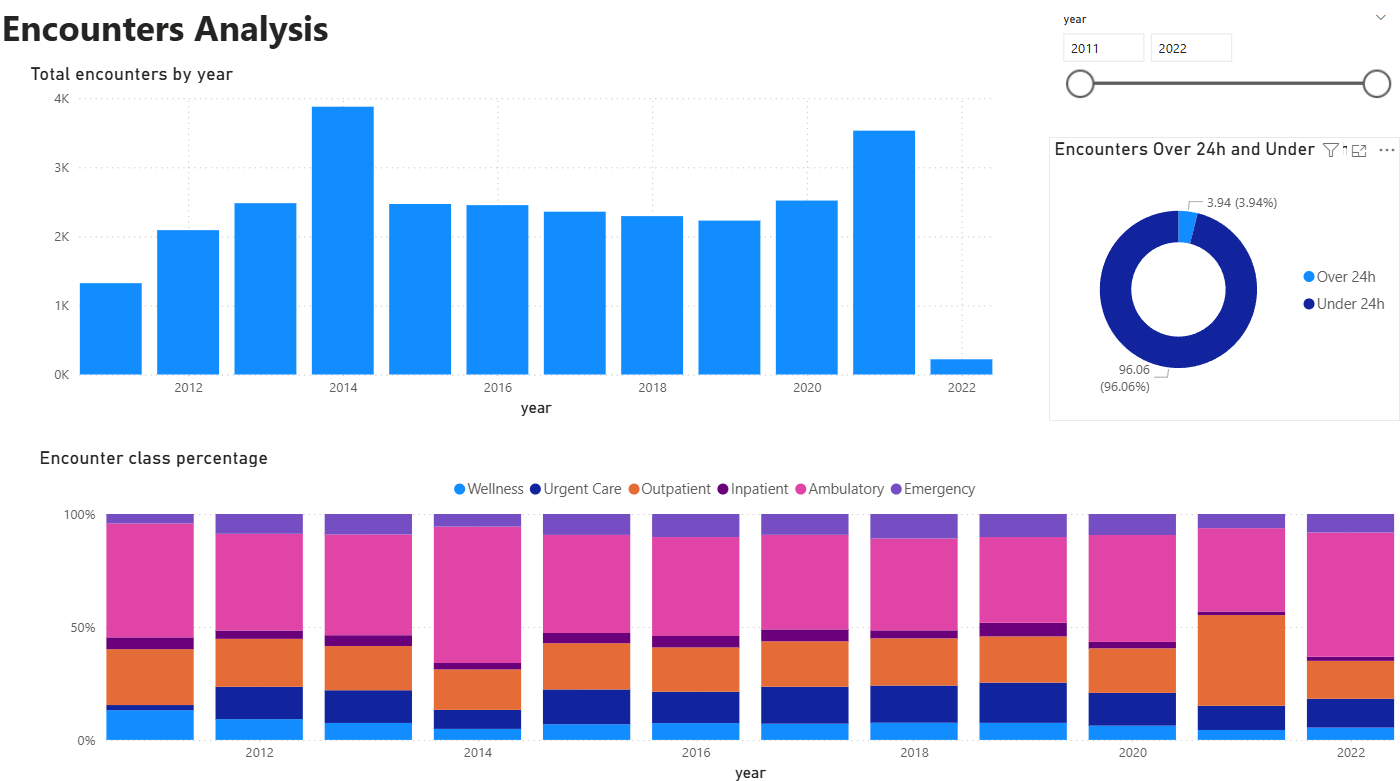
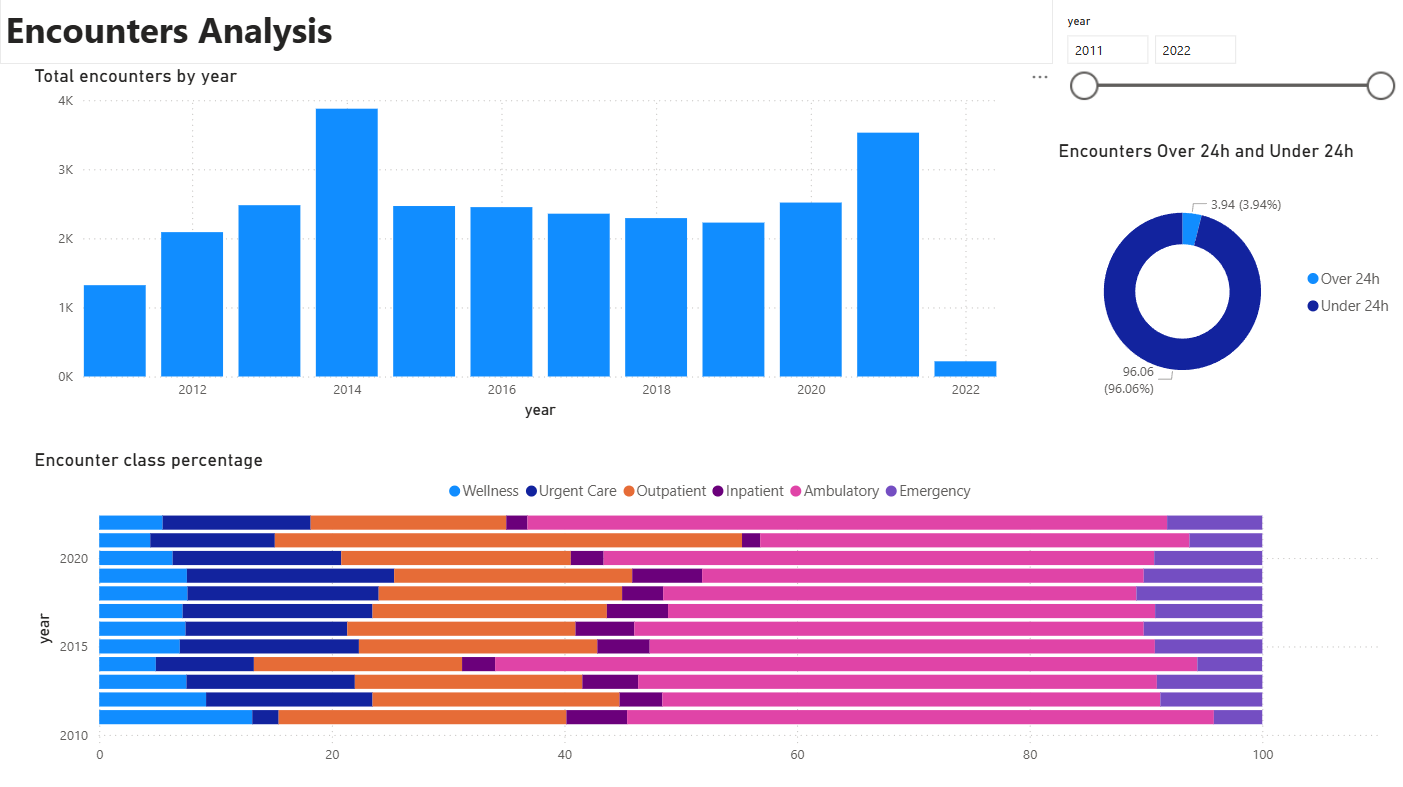
readme

diff --git a/README.md b/README.md
@@ -29,25 +29,31 @@ This project analyzes hospital data using **SQL** and visualizes insights in **P
 The dashboard has **four main pages**:
 
 1. **Overview**  
-   - Total encounters, % over 24 hours, % zero payer coverage.  
+   - Total encounters, total patients,Average claim cost,total encounters by year.
+   -Slicer:Year;  
    ![Overview](screenshots/Overview.png)
 
 2. **Encounter Classes**  
-   - 100% Stacked Bar Chart showing encounter classes per year.  
+   - total encounters by year 
+   - encounter class percentage 
+   - % of encounters over 24h and under 24h
    - Slicer: Year.  
    ![Encounter Classes](screenshots/Encounters_Analysis.png)  
 
 
 3. **Costs & Coverage**  
    - Top 10 procedures table with average cost.  
-   - Average claim cost per payer table.  
+   - How many encounters had zero payer coverage
+   - Precent of zero payer coverage
+   
    ![Costs & Coverage](screenshots/Cost_and_Coverage.png) 
 
 
 4. **Patient Behavior**  
-   - Line chart: unique patients per quarter.  
-   - Table: top readmitted patients.  
-   - Slicer: Year/Quarter.  
+   - number of readmitted patients within 30 days
+   - top readmitted patients within 30 days.  
+   - Patitens  per quarter
+   - Slicer: Name
    ![Patient Behavior](screenshots/Patient_Behavior.png)  
 
 ---
